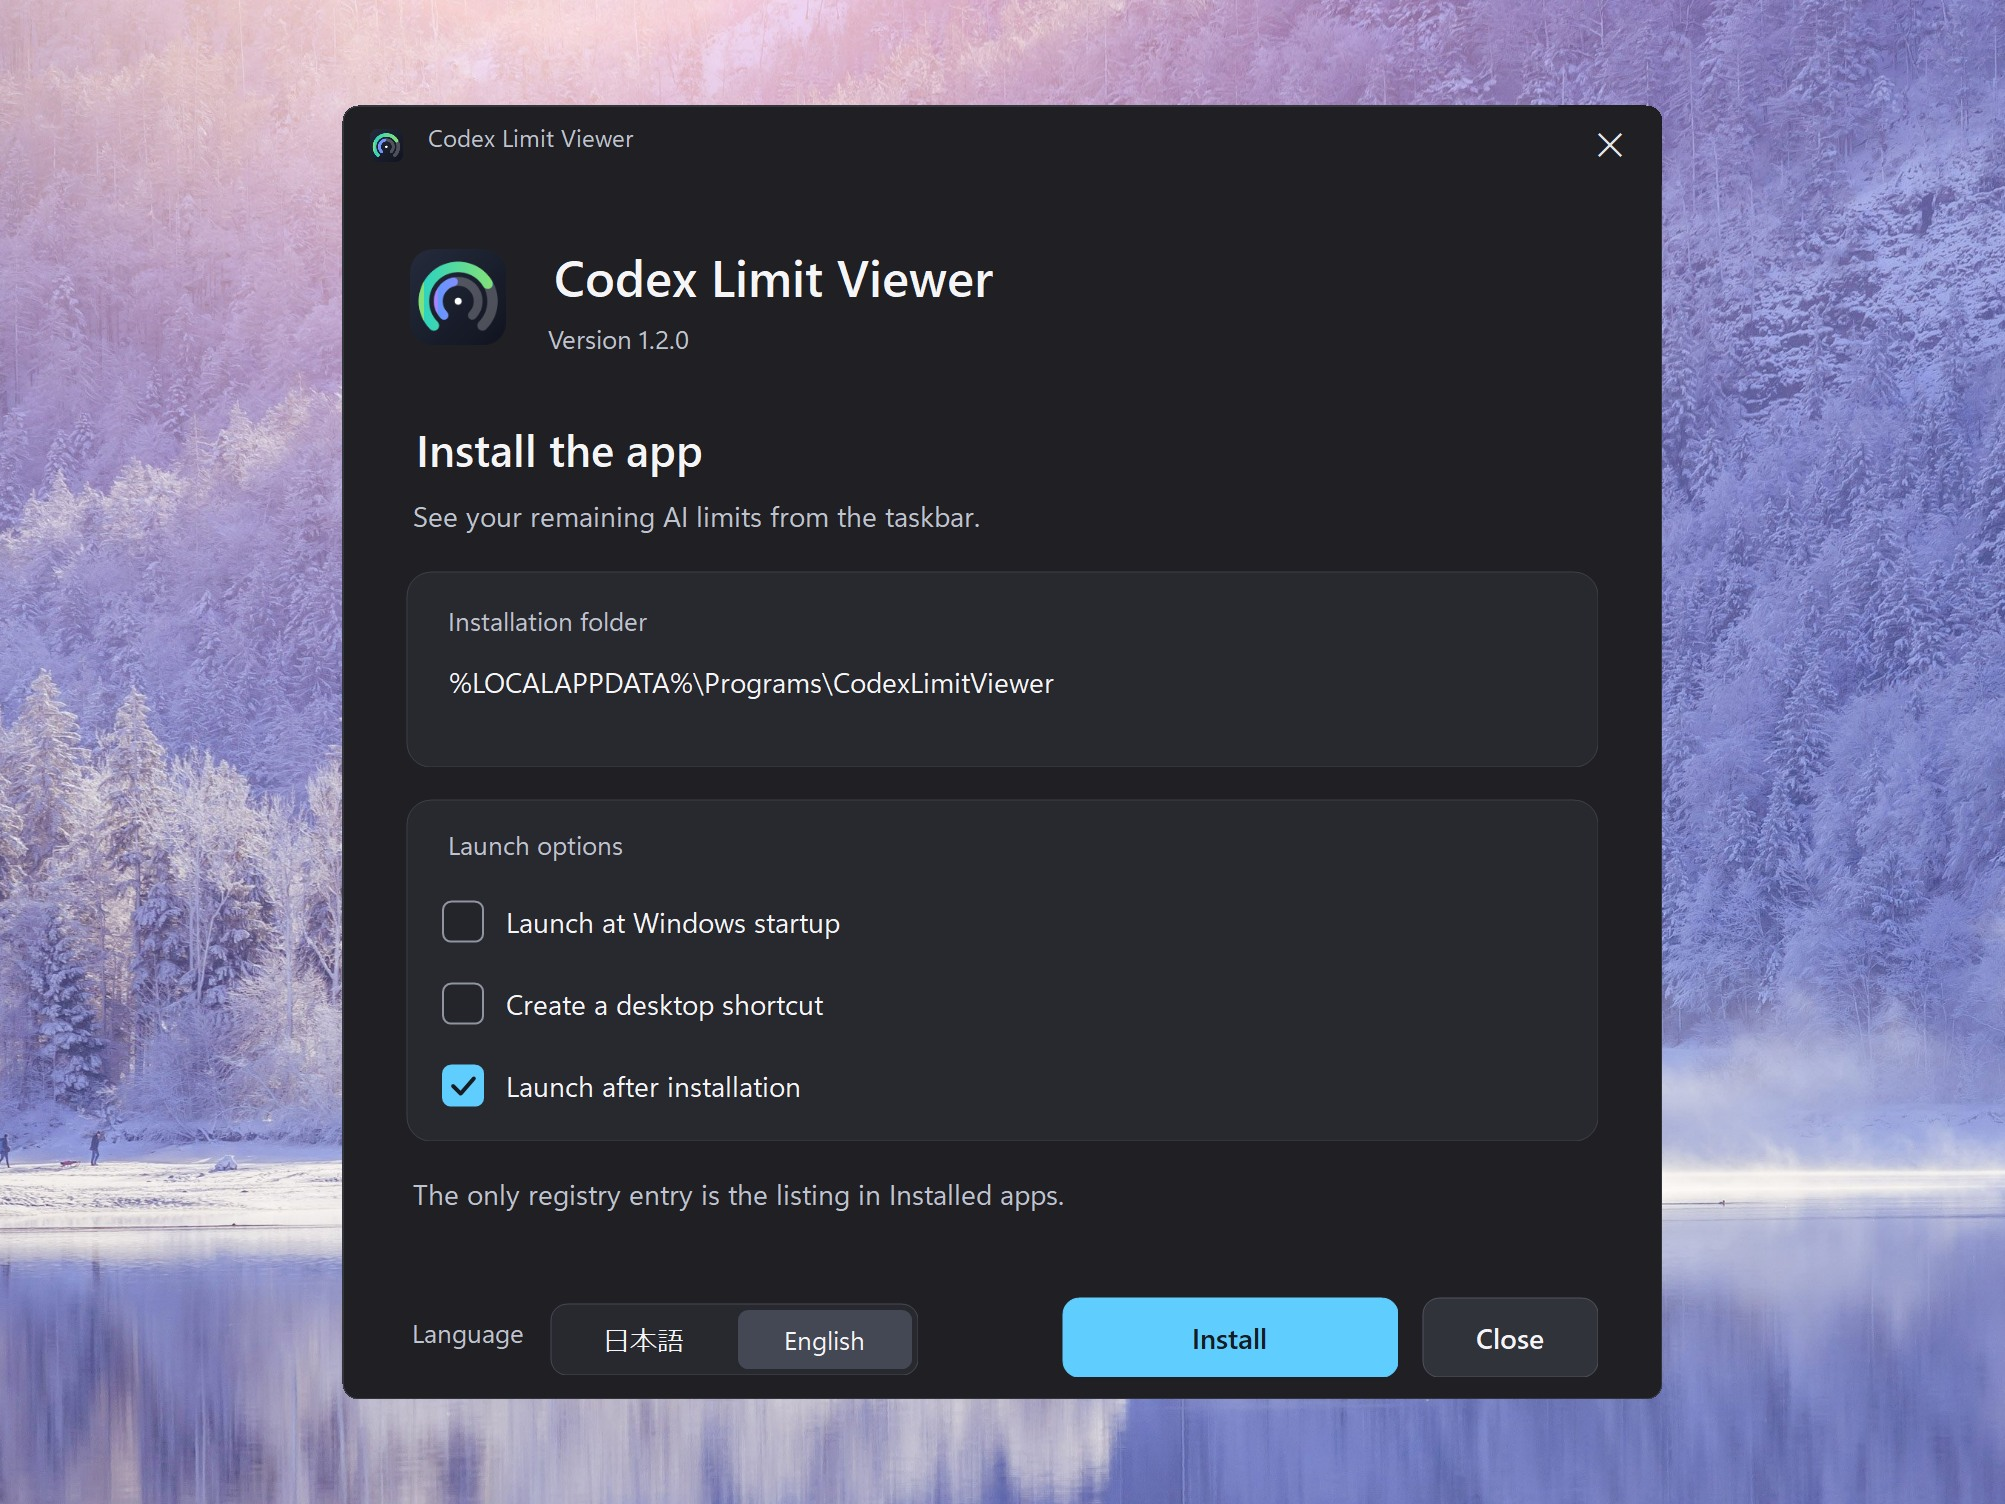
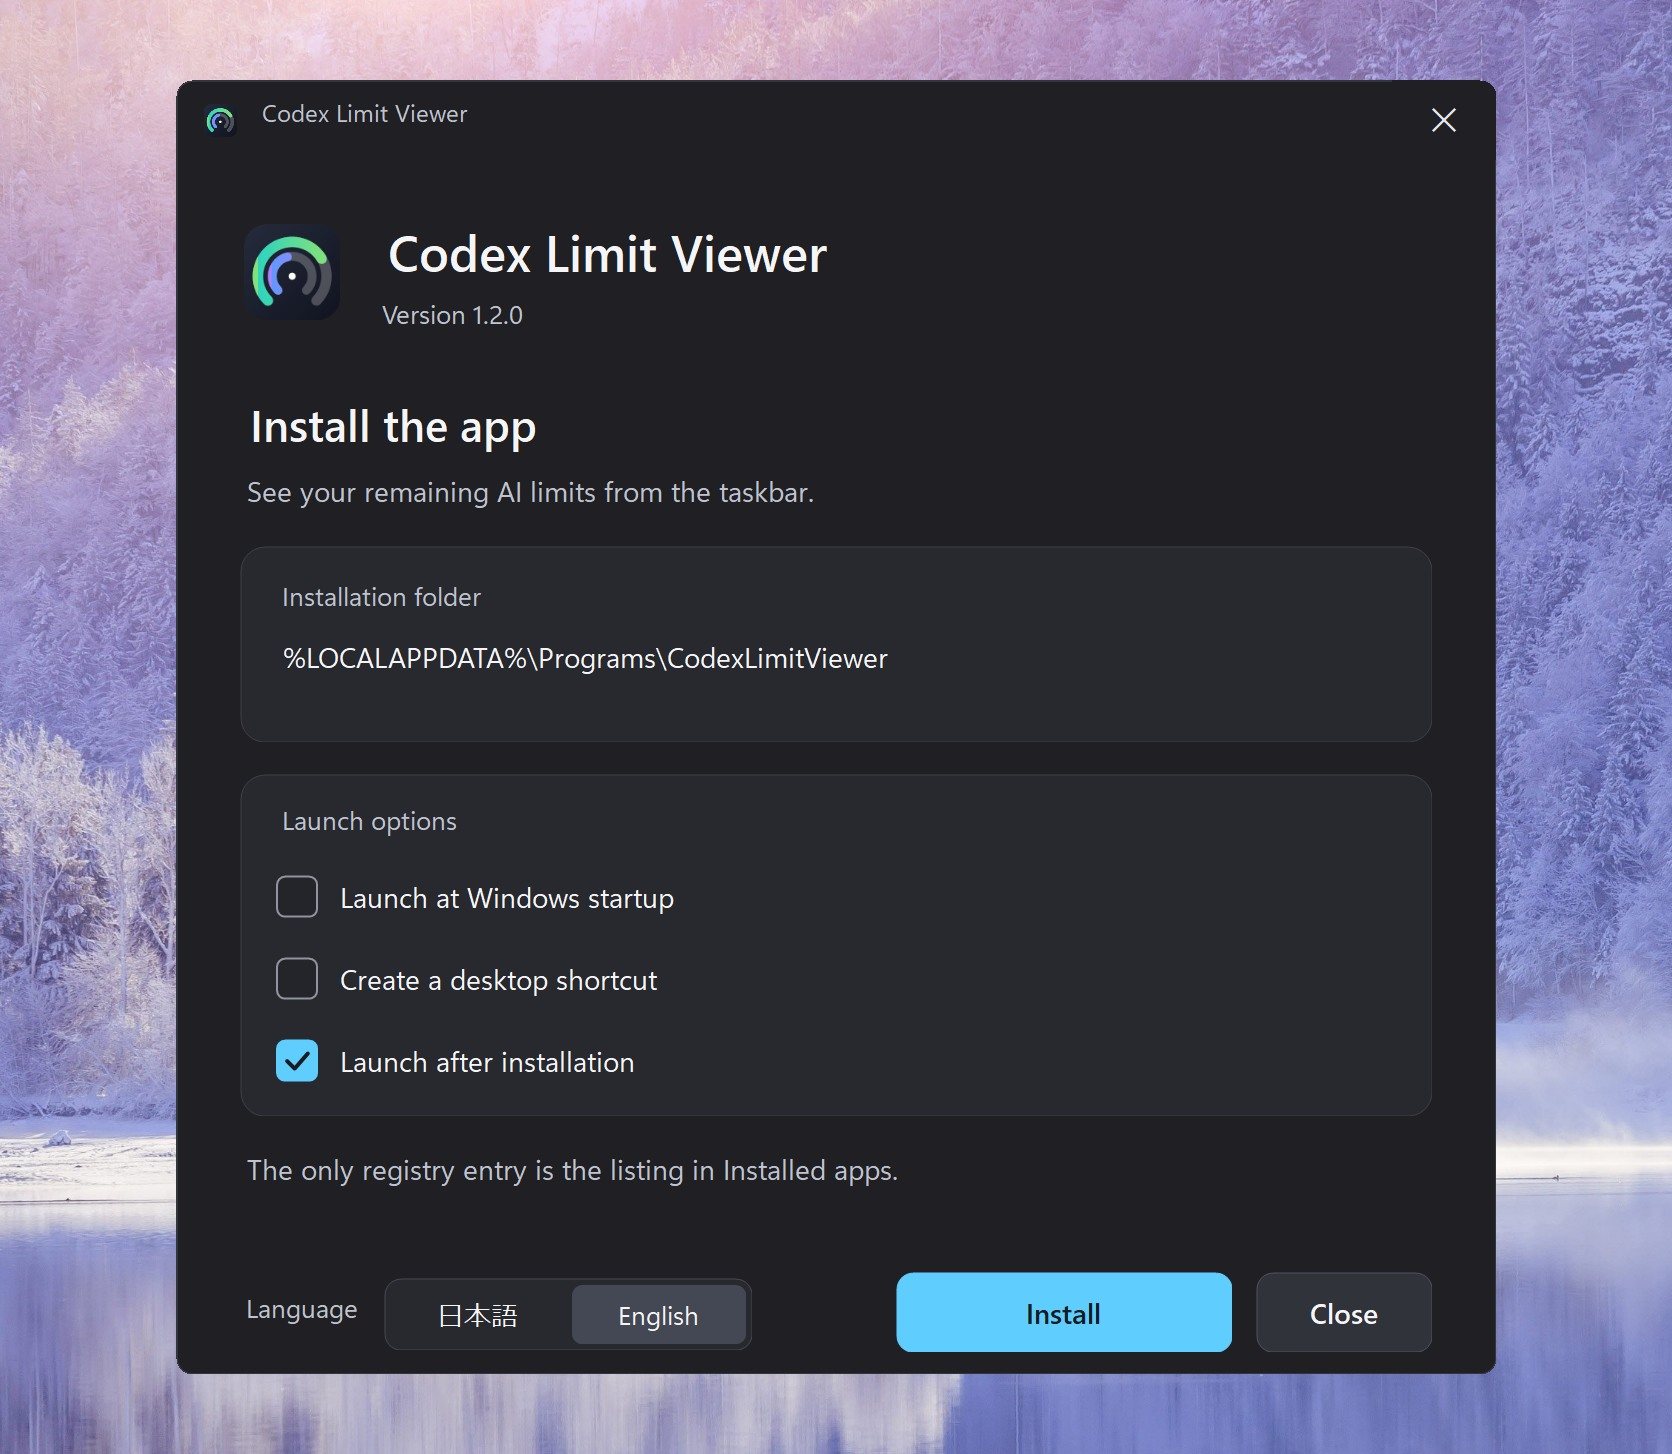
Crop README screenshots closer to the app
Keep just enough wallpaper and taskbar for context instead of padding every
image out to 16:9 or 4:3.

Changed region(s): [[0.0, 0.0, 1.0, 1.0], [0.0, 0.0, 0.0311, 0.0619], [0.0311, 0.1857, 0.0622, 0.2166]]

diff --git a/docs/release-v1.2.0.md b/docs/release-v1.2.0.md
@@ -4,7 +4,7 @@
 
 Windows 11の通知領域で、AIサービスの利用枠の残り割合をひと目で確認できるアプリです。今回の版では、アプリを大幅に小さくし、残量の取得を安定させました。
 
-![タスクバーの表示例](https://raw.githubusercontent.com/hinatamaxxx/codex-limit-viewer/v1.2.0/docs/taskbar.jpg)
+![タスクバーの表示例](https://raw.githubusercontent.com/hinatamaxxx/codex-limit-viewer/main/docs/taskbar.jpg)
 
 ### 主な変更点
 
